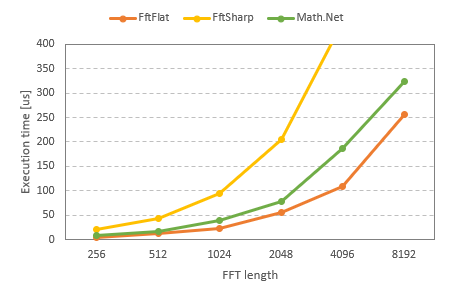
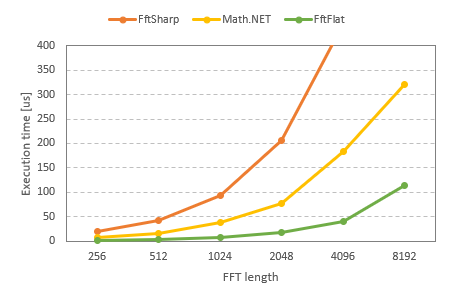
Update benchmark.

Changed region(s): [[0.0311, 0.12, 0.9956, 0.87], [0.2489, 0.03, 0.7778, 0.09], [0.4978, 0.9, 0.6222, 0.96]]

diff --git a/Benchmark/Test.cs b/Benchmark/Test.cs
@@ -13,7 +13,7 @@ namespace Benchmark
         private FftFlat.FastFourierTransform fft;
         private StreamWriter log;
 
-        [Params(256, 1024, 4096)]
+        [Params(256, 512, 1024, 2048, 4096, 8192)]
         public int Length;
 
         [GlobalSetup]

diff --git a/README.md b/README.md
@@ -43,24 +43,24 @@ The following is a benchmark comparing this with other pure C# FFT implementatio
 
 | Method   | Length | Mean       | Error     | StdDev    | Gen0   | Allocated |
 |--------- |------- |-----------:|----------:|----------:|-------:|----------:|
-| **FftFlat**  | **256**    |   **4.965 μs** | **0.0114 μs** | **0.0101 μs** |      **-** |         **-** |
-| FftSharp | 256    |  20.235 μs | 0.0619 μs | 0.0549 μs |      - |         - |
-| MathNet  | 256    |   7.910 μs | 0.0236 μs | 0.0221 μs |      - |         - |
-| **FftFlat**  | **512**    |  **12.296 μs** | **0.0236 μs** | **0.0221 μs** |      **-** |         **-** |
-| FftSharp | 512    |  43.121 μs | 0.0755 μs | 0.0707 μs |      - |         - |
-| MathNet  | 512    |  16.256 μs | 0.0512 μs | 0.0454 μs |      - |         - |
-| **FftFlat**  | **1024**   |  **23.508 μs** | **0.0351 μs** | **0.0328 μs** |      **-** |         **-** |
-| FftSharp | 1024   |  94.384 μs | 0.1486 μs | 0.1390 μs |      - |         - |
-| MathNet  | 1024   |  39.840 μs | 0.3345 μs | 0.3129 μs | 1.5869 |   20925 B |
-| **FftFlat**  | **2048**   |  **56.615 μs** | **0.1714 μs** | **0.1603 μs** |      **-** |         **-** |
-| FftSharp | 2048   | 205.460 μs | 0.4828 μs | 0.4280 μs |      - |         - |
-| MathNet  | 2048   |  78.428 μs | 0.5052 μs | 0.4726 μs | 1.8311 |   24474 B |
-| **FftFlat**  | **4096**   | **109.523 μs** | **0.2409 μs** | **0.2253 μs** |      **-** |         **-** |
-| FftSharp | 4096   | 444.830 μs | 2.3125 μs | 2.1631 μs |      - |         - |
-| MathNet  | 4096   | 186.309 μs | 1.2405 μs | 1.1604 μs | 2.4414 |   33174 B |
-| **FftFlat**  | **8192**   | **257.211 μs** | **0.9387 μs** | **0.8781 μs** |      **-** |         **-** |
-| FftSharp | 8192   | 952.966 μs | 1.6605 μs | 1.4720 μs |      - |       1 B |
-| MathNet  | 8192   | 323.204 μs | 0.6870 μs | 0.5737 μs | 3.4180 |   46602 B |
+| **FftFlat**  | **256**    |   **1.528 μs** | **0.0029 μs** | **0.0026 μs** |      **-** |         **-** |
+| FftSharp | 256    |  19.160 μs | 0.0760 μs | 0.0711 μs |      - |         - |
+| MathNet  | 256    |   7.809 μs | 0.0239 μs | 0.0212 μs |      - |         - |
+| **FftFlat**  | **512**    |   **3.657 μs** | **0.0086 μs** | **0.0080 μs** |      **-** |         **-** |
+| FftSharp | 512    |  43.115 μs | 0.1461 μs | 0.1367 μs |      - |         - |
+| MathNet  | 512    |  16.250 μs | 0.0471 μs | 0.0440 μs |      - |         - |
+| **FftFlat**  | **1024**   |   **7.624 μs** | **0.0352 μs** | **0.0294 μs** |      **-** |         **-** |
+| FftSharp | 1024   |  93.643 μs | 0.1119 μs | 0.1046 μs |      - |         - |
+| MathNet  | 1024   |  39.235 μs | 0.0591 μs | 0.0524 μs | 1.5869 |   20875 B |
+| **FftFlat**  | **2048**   |  **17.883 μs** | **0.0602 μs** | **0.0563 μs** |      **-** |         **-** |
+| FftSharp | 2048   | 205.152 μs | 0.4467 μs | 0.4179 μs |      - |         - |
+| MathNet  | 2048   |  77.048 μs | 0.3446 μs | 0.2878 μs | 1.8311 |   24692 B |
+| **FftFlat**  | **4096**   |  **39.643 μs** | **0.3727 μs** | **0.3486 μs** |      **-** |         **-** |
+| FftSharp | 4096   | 444.473 μs | 0.6072 μs | 0.5382 μs |      - |         - |
+| MathNet  | 4096   | 183.645 μs | 0.7292 μs | 0.6821 μs | 2.4414 |   33076 B |
+| **FftFlat**  | **8192**   | **113.593 μs** | **0.6839 μs** | **0.6397 μs** |      **-** |         **-** |
+| FftSharp | 8192   | 956.056 μs | 1.3150 μs | 1.2300 μs |      - |       1 B |
+| MathNet  | 8192   | 321.394 μs | 0.9518 μs | 0.8437 μs | 3.4180 |   46710 B |
 
 ![A graphical plot of the table above.](plot.png)
 
